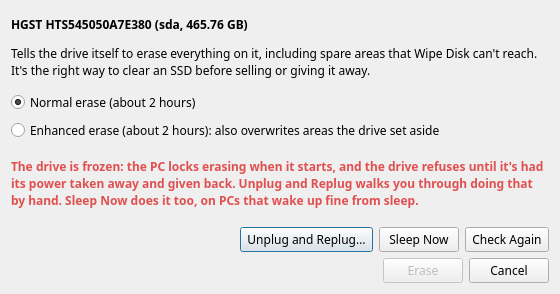
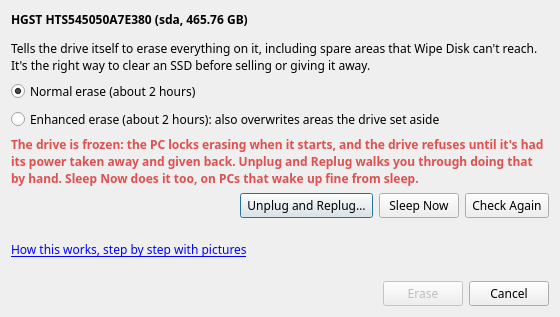
Secure Erase: link to the step by step doc

diff --git a/src/erasedialog.cpp b/src/erasedialog.cpp
@@ -60,6 +60,7 @@ SecureEraseDialog::SecureEraseDialog(UDisks *udisks, const QString &blockPath, i
     , m_first(new QRadioButton)
     , m_second(new QRadioButton)
     , m_frozen(new QLabel)
+    , m_howTo(new QLabel)
     , m_sleep(new QPushButton(tr("Sleep Now")))
     , m_checkAgain(new QPushButton(tr("Check Again")))
     , m_warning(new QLabel)
@@ -102,6 +103,10 @@ SecureEraseDialog::SecureEraseDialog(UDisks *udisks, const QString &blockPath, i
                                  "power taken away and given back. Unplug and Replug walks you through doing that by hand. Sleep "
                                  "Now does it too, on PCs that wake up fine from sleep.")));
     m_replug->setObjectName(QStringLiteral("replug"));
+    m_howTo->setText(QStringLiteral("<a href=\"https://github.com/DannyS124/diskforge/blob/main/docs/SECURE-ERASE.md\">%1</a>")
+                         .arg(tr("How this works, step by step with pictures").toHtmlEscaped()));
+    m_howTo->setOpenExternalLinks(true);
+    m_howTo->setObjectName(QStringLiteral("howTo"));
 
     auto *frozenRow = new QHBoxLayout;
     frozenRow->addStretch();
@@ -142,6 +147,7 @@ SecureEraseDialog::SecureEraseDialog(UDisks *udisks, const QString &blockPath, i
     layout->addWidget(m_frozen);
     layout->addLayout(frozenRow);
     layout->addWidget(m_replugBox);
+    layout->addWidget(m_howTo);
     layout->addWidget(m_warning);
     layout->addWidget(m_confirm);
     layout->addWidget(dialogButtons(this, tr("Erase"), &m_erase));
@@ -339,6 +345,7 @@ void SecureEraseDialog::updateState()
     m_sleep->setVisible(frozen && !replugging);
     m_checkAgain->setVisible(frozen && !replugging);
     m_replugBox->setVisible(replugging);
+    m_howTo->setVisible(frozen || replugging);
     const bool showCommand = m_step == Replug::Replug && !rescue::canRescanDrives() && m_replugWaited.elapsed() >= 20000;
     m_replugCommand->setVisible(showCommand);
     m_replugCopy->setVisible(showCommand);

diff --git a/src/erasedialog.h b/src/erasedialog.h
@@ -43,6 +43,7 @@ private:
     QRadioButton *m_first;
     QRadioButton *m_second;
     QLabel *m_frozen;
+    QLabel *m_howTo;
     QPushButton *m_sleep;
     QPushButton *m_checkAgain;
     QLabel *m_warning;
